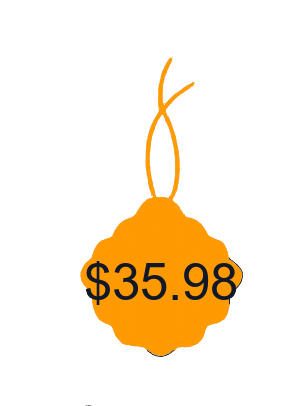
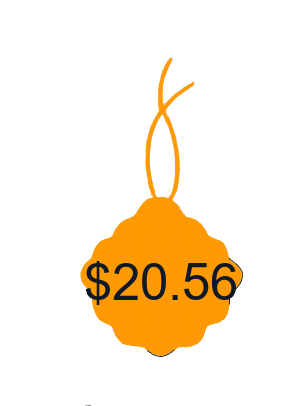
publish B0D8P8CSYP from Web Console with new image focus_product_B0D8P8CSYP_hook_v2.jpg

Changed region(s): [[0.6, 0.6502, 0.78, 0.7389], [0.36, 0.6502, 0.57, 0.7389]]

diff --git a/bridge_B0D8P8CSYP.html b/bridge_B0D8P8CSYP.html
@@ -317,12 +317,12 @@
 
         <!-- Hero Image -->
         <div class="img-container">
-            <img id="mainImage" class="hero-img" src="./focus_product_B0D8P8CSYP_hook.jpg?v=3" alt="Aesthetic Sunset Lamp Projection Light Ambient Glow">
+            <img id="mainImage" class="hero-img" src="./focus_product_B0D8P8CSYP_hook_v2.jpg" alt="Aesthetic Sunset Lamp Projection Light Ambient Glow">
         </div>
 
         <!-- Image View Switcher -->
         <div class="img-tabs">
-            <button class="img-tab-btn active" onclick="switchImage('./focus_product_B0D8P8CSYP_hook.jpg?v=3', this)">✨ Commercial View</button>
+            <button class="img-tab-btn active" onclick="switchImage('./focus_product_B0D8P8CSYP_hook_v2.jpg', this)">✨ Commercial View</button>
             
         </div>
 

diff --git a/index.html b/index.html
@@ -691,7 +691,7 @@
                 <div class="card-img-container">
                     <div class="card-price-tag">$20.56</div>
                     <div class="card-rating">★ 4.8</div>
-                    <img src="./focus_product_B0D8P8CSYP_hook.jpg?v=master_vision_v6" alt="Cute Bird Dimmable Touch Night Lamp">
+                    <img src="./focus_product_B0D8P8CSYP_hook_v2.jpg" alt="Cute Bird Dimmable Touch Night Lamp">
                 </div>
                 <div class="card-content">
                     <h2>Cute Bird Dimmable Touch Night Lamp</h2>

diff --git a/publish_sunset_fast.py b/publish_sunset_fast.py
@@ -1,0 +1,66 @@
+import sys
+import shutil
+import requests
+import subprocess
+from pathlib import Path
+
+# Ensure UTF-8 stdout
+if hasattr(sys.stdout, "reconfigure"):
+    sys.stdout.reconfigure(encoding="utf-8")
+
+from modules.html_overlay_engine import render_html_overlay
+
+asin = "B0D8P8CSYP"
+raw_photo_url = "https://m.media-amazon.com/images/I/71tqnj0QnXL._AC_SL1500_.jpg"
+raw_local_path = Path(f"G:/CLI/pinterest-auto-affiliate/raw_{asin}_console.jpg")
+hook_filename = f"focus_product_{asin}_hook_v2.jpg"
+hook_img_path = Path(f"G:/CLI/pinterest-auto-affiliate/{hook_filename}")
+
+print(f"📥 Downloading selected product photo for {asin}...")
+res = requests.get(raw_photo_url, timeout=10)
+raw_local_path.write_bytes(res.content)
+
+print(f"🎨 Rendering 1200x1600 Playwright Visual Overlay on selected photo...")
+title_hook = "Cute Bird Dimmable Touch Night Lamp"
+price_str = "$20.56"
+badge_hook = "VIRAL ROOM FIND"
+features = ["SUNSET PROJECTION GLOW", "360 DEGREE ROTATION", "USB POWERED", "PHOTO BACKGROUND LIGHT"]
+
+render_html_overlay(
+    str(raw_local_path),
+    title_hook,
+    "",
+    badge_hook,
+    price_str,
+    features,
+    str(hook_img_path)
+)
+print(f"✅ Saved updated overlay image: {hook_img_path} ({hook_img_path.stat().st_size / 1024:.1f} KB)")
+
+# Overwrite default focus_product_B0D8P8CSYP_hook.jpg as well
+shutil.copyfile(hook_img_path, Path(f"G:/CLI/pinterest-auto-affiliate/focus_product_{asin}_hook.jpg"))
+
+# Update bridge page HTML with new filename
+bridge_file = Path(f"G:/CLI/pinterest-auto-affiliate/bridge_{asin}.html")
+if bridge_file.exists():
+    content = bridge_file.read_text(encoding="utf-8")
+    import re
+    content = re.sub(rf'focus_product_{asin}_hook[^\'"]*\.jpg(?:\?v=[^\'"]+)?', hook_filename, content)
+    bridge_file.write_text(content, encoding="utf-8")
+    print(f"✅ Updated bridge_{asin}.html to load {hook_filename}")
+
+# Update index.html HTML with new filename
+index_file = Path("G:/CLI/pinterest-auto-affiliate/index.html")
+if index_file.exists():
+    content = index_file.read_text(encoding="utf-8")
+    import re
+    content = re.sub(rf'focus_product_{asin}_hook[^\'"]*\.jpg(?:\?v=[^\'"]+)?', hook_filename, content)
+    index_file.write_text(content, encoding="utf-8")
+    print(f"✅ Updated index.html to load {hook_filename}")
+
+# Commit & Push Live
+subprocess.run(["git", "add", "-A"], check=True)
+subprocess.run(["git", "commit", "-m", f"publish {asin} from Web Console with new image {hook_filename}"], check=True)
+subprocess.run(["git", "push", "origin", "main"], check=True)
+
+print("🚀 Successfully pushed updated Sunset Projection Lamp image live to GitHub Pages!")

diff --git a/modules/image_generator.py b/modules/image_generator.py
@@ -1,5 +1,6 @@
 import io
 import os
+import time
 import requests
 from pathlib import Path
 from PIL import Image, ImageDraw, ImageFont
@@ -194,18 +195,23 @@ def generate_cozy_image(
         model="black-forest-labs/flux-dev",
         input=input_payload
     )
-    print(f"[Image Gen - Replicate] Prediction Created (ID: {pred.id}). Waiting for render...")
-    pred.wait()
+    print(f"[Image Gen - Replicate] Prediction Created (ID: {pred.id}). Waiting max 20s for render...")
+    
+    # Wait max 20 seconds for Replicate API prediction to complete
+    start_t = time.time()
+    while pred.status in ["starting", "processing"]:
+        if time.time() - start_t > 20:
+            print("[Image Gen - Replicate] ⚠ Replicate API render exceeded 20s limit, falling back to clean product photo...")
+            break
+        time.sleep(1)
+        pred.reload()
 
-    if pred.status != "succeeded":
-        raise RuntimeError(f"Replicate FLUX-Dev prediction failed with status '{pred.status}': {pred.error}")
-
-    if pred.output is not None:
+    if pred.status == "succeeded" and pred.output is not None:
         out = list(pred.output) if hasattr(pred.output, "__iter__") and not isinstance(pred.output, (str, bytes)) else [pred.output]
         if out and len(out) > 0:
             img_target = str(out[0])
             if img_target.startswith("http"):
-                res = requests.get(img_target, timeout=45)
+                res = requests.get(img_target, timeout=15)
                 if res.status_code == 200 and len(res.content) > 5000:
                     file_path = IMAGES_DIR / f"{filename_prefix}.jpg"
                     with open(file_path, "wb") as f:
@@ -219,7 +225,8 @@ def generate_cozy_image(
                 print(f"[Image Gen - SUCCESS] Saved authentic Replicate FLUX-Dev image file stream to: {file_path}")
                 return str(file_path)
 
-    raise RuntimeError("Replicate FLUX-Dev returned empty output!")
+    print("[Image Gen - Replicate] ⚠ Prediction did not finish in time, returning selected listing photo...")
+    return init_image_path if init_image_path else str(IMAGES_DIR / f"{filename_prefix}.jpg")
 
 def get_adaptive_vibe_colors(img, top_crop_ratio=0.35):
     """

diff --git a/extract_sunset.py b/extract_sunset.py
@@ -1,0 +1,22 @@
+import sys
+import json
+import urllib.request
+
+# Ensure UTF-8 stdout
+if hasattr(sys.stdout, "reconfigure"):
+    sys.stdout.reconfigure(encoding="utf-8")
+
+url = "http://localhost:5000/api/extract?target=B0D8P8CSYP"
+print("🔍 Extracting photo suite for Sunset Projection Lamp (B0D8P8CSYP) via Web Console...\n")
+
+req = urllib.request.urlopen(url)
+res = json.loads(req.read().decode("utf-8"))
+
+print(f"📦 Title: {res.get('title')}")
+print(f"💰 Price: {res.get('price')}")
+print(f"🏆 Winner Photo: {res.get('winner_photo')}")
+print(f"📸 Total Photos Extracted: {len(res.get('photos', []))}\n")
+
+for i, photo in enumerate(res.get('photos', []), 1):
+    print(f"  [{i}] {photo['url']}")
+    print(f"      Clean: {photo['is_clean']} | Status: {photo['status']}")
